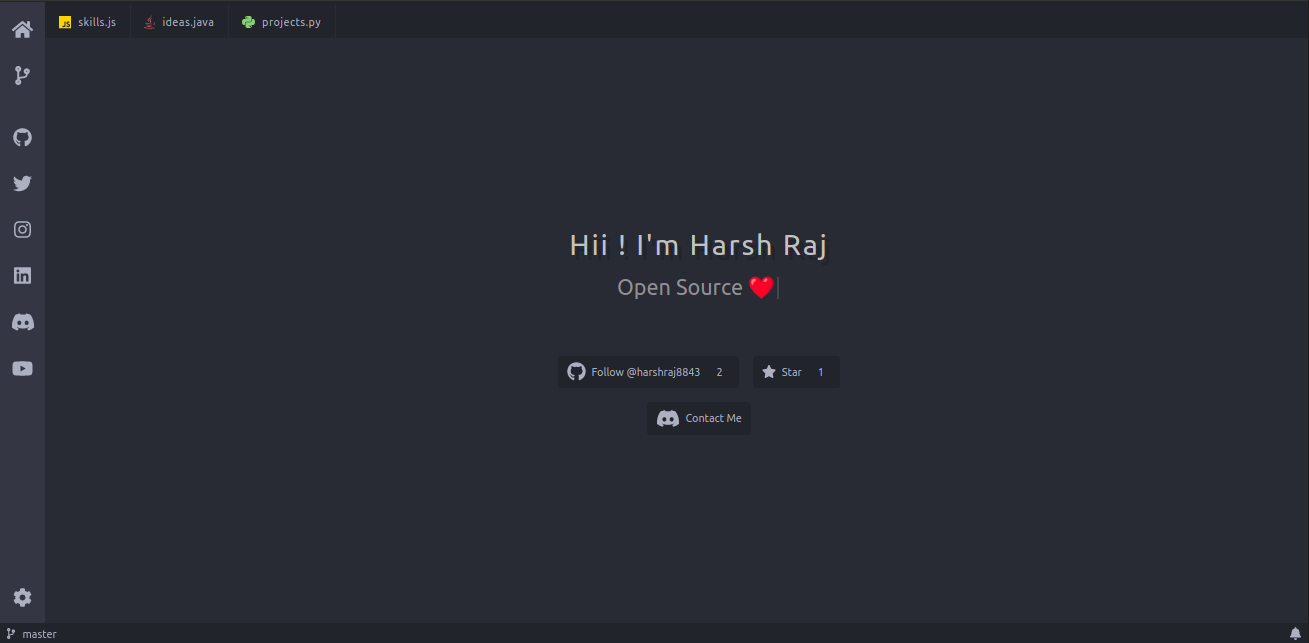
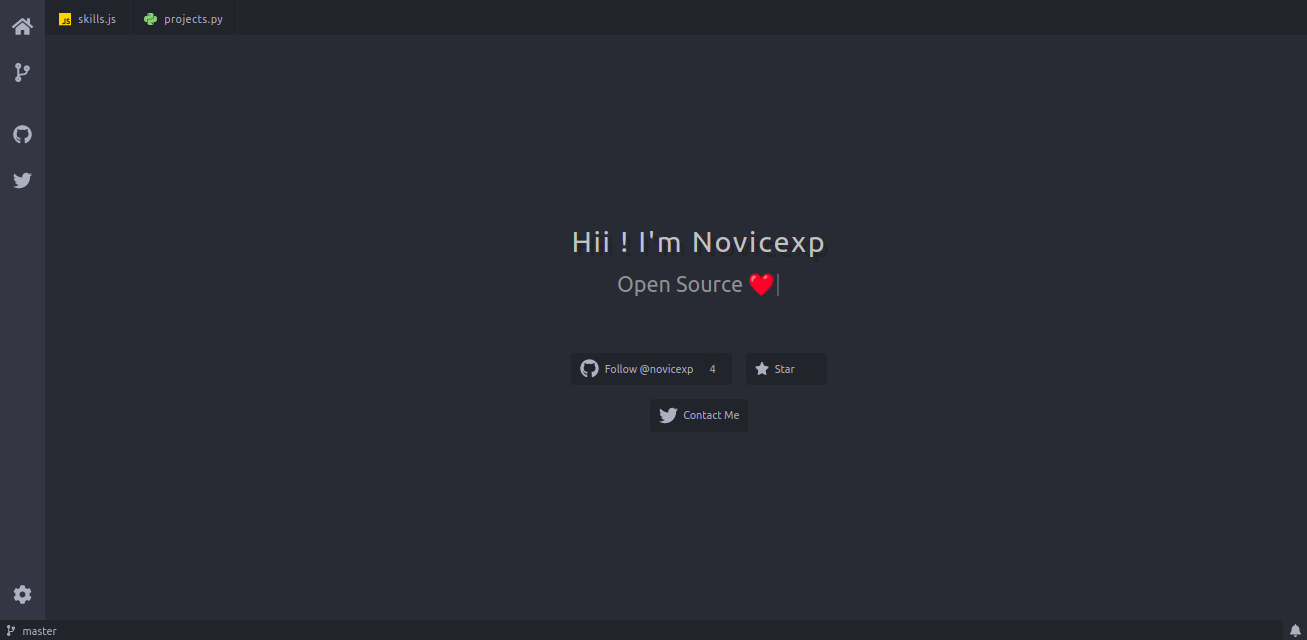
novicexp

diff --git a/src/views/Project/index.js b/src/views/Project/index.js
@@ -20,7 +20,7 @@ const Project = ({ repoData, api_domain }) => {
   //     console.log(repoData[i].owner.login);
   //     setProjects(
   //       (prevState) =>
-  //         `${prevState} [![Project Card](https://harshraj8843.vercel.app/api/pin/?username=${repoData[i].owner.login}&repo=${repoData[i].name})](${repoData[i].html_url})`
+  //         `${prevState} [![Project Card](https://github-readme-stats.vercel.app/api/pin/?username=${repoData[i].owner.login}&repo=${repoData[i].name})](${repoData[i].html_url})`
   //     );
   //   }
   // }, [repoData]);

diff --git a/src/App.js b/src/App.js
@@ -32,10 +32,10 @@ function App() {
 
   // github-readme-stats domain
   // default => https://github-readme-stats.vercel.app
-  const [api_domain] = React.useState("https://harshraj8843.vercel.app");
+  const [api_domain] = React.useState("https://github-readme-stats.vercel.app");
 
   // github username
-  const [gh_username] = React.useState('harshraj8843');
+  const [gh_username] = React.useState('novicexp');
 
   // useEffect for api call
   React.useState(() => {

diff --git a/src/data/index.js b/src/data/index.js
@@ -28,7 +28,7 @@ export const pages = [
     ),
   },
   {
-    name: "harshraj8843/devweb-react",
+    name: "novicexp/devweb-react",
     url: "/git",
     icon: "code-branch",
     isInternal: true,
@@ -44,13 +44,6 @@ export const tabs = [
     icon: ["fab", "js"],
     color: jsOrange,
     mdFileName: "skills",
-  },
-  {
-    name: "ideas.java",
-    url: "/ideas",
-    icon: ["fab", "java"],
-    color: red,
-    mdFileName: "ideas",
   }
 ];
 

diff --git a/public/index.html b/public/index.html
@@ -30,10 +30,7 @@
   <!-- https://github.com/webpack/webpack/issues/2882#issuecomment-280906981 -->
   <base href="/home" />
 
-  <!-- google-site-verification -->
-  <meta name="google-site-verification" content="qHnFFjGy9Azdf50KfJBWrnlj4yJCsYtDqSwX91m1_FE" />
-
-  <title>harshraj8843</title>
+  <title>Novicexp</title>
 </head>
 
 <body>

diff --git a/src/data/tabs/git.md b/src/data/tabs/git.md
@@ -1,39 +1,39 @@
-### harshraj8843/devweb-react
+### novicexp/devweb-react
 
-- URL :- [https://github.com/harshraj8843/devweb-react](https://github.com/harshraj8843/devweb-react)
+- URL :- [https://github.com/novicexp/devweb-react](https://github.com/novicexp/devweb-react)
 
 - Repo 
 
-    [![GitHub license](https://img.shields.io/github/license/harshraj8843/devweb-react)](https://github.com/harshraj8843/devweb-react/blob/master/LICENSE.md)
+    [![GitHub license](https://img.shields.io/github/license/novicexp/devweb-react)](https://github.com/novicexp/devweb-react/blob/master/LICENSE.md)
     
-    ![GitHub Repo Size](https://img.shields.io/github/repo-size/harshraj8843/devweb-react)
+    ![GitHub Repo Size](https://img.shields.io/github/repo-size/novicexp/devweb-react)
     
-    ![GitHub Downloads](https://img.shields.io/github/downloads/harshraj8843/devweb-react/total)
+    ![GitHub Downloads](https://img.shields.io/github/downloads/novicexp/devweb-react/total)
 
-    ![GitHub stars](https://img.shields.io/github/stars/harshraj8843/devweb-react?style=social) ![GitHub forks](https://img.shields.io/github/forks/harshraj8843/devweb-react?style=social) ![GitHub watchers](https://img.shields.io/github/watchers/harshraj8843/devweb-react?style=social)
+    ![GitHub stars](https://img.shields.io/github/stars/novicexp/devweb-react?style=social) ![GitHub forks](https://img.shields.io/github/forks/novicexp/devweb-react?style=social) ![GitHub watchers](https://img.shields.io/github/watchers/novicexp/devweb-react?style=social)
 
-    ![GitHub version](https://img.shields.io/github/v/release/harshraj8843/devweb-react) ![GitHub release-date](https://img.shields.io/github/release-date/harshraj8843/devweb-react)
+    ![GitHub version](https://img.shields.io/github/v/release/novicexp/devweb-react) ![GitHub release-date](https://img.shields.io/github/release-date/novicexp/devweb-react)
 
 - Top Language
 
-    ![GitHub top language](https://img.shields.io/github/languages/top/harshraj8843/devweb-react)
+    ![GitHub top language](https://img.shields.io/github/languages/top/novicexp/devweb-react)
 
 - Code
 
-    ![GitHub Code Size](https://img.shields.io/github/languages/code-size/harshraj8843/devweb-react) ![GitHub Line of Code](https://img.shields.io/tokei/lines/github/harshraj8843/devweb-react)
+    ![GitHub Code Size](https://img.shields.io/github/languages/code-size/novicexp/devweb-react) ![GitHub Line of Code](https://img.shields.io/tokei/lines/github/novicexp/devweb-react)
 
-    ![GitHub commit activity](https://img.shields.io/github/commit-activity/m/harshraj8843/devweb-react) ![GitHub last commit](https://img.shields.io/github/last-commit/harshraj8843/devweb-react)
+    ![GitHub commit activity](https://img.shields.io/github/commit-activity/m/novicexp/devweb-react) ![GitHub last commit](https://img.shields.io/github/last-commit/novicexp/devweb-react)
 
-    [![GitHub contributors](https://img.shields.io/github/contributors/harshraj8843/devweb-react)](https://github.com/harshraj8843/devweb-react/graphs/contributors)
+    [![GitHub contributors](https://img.shields.io/github/contributors/novicexp/devweb-react)](https://github.com/novicexp/devweb-react/graphs/contributors)
 
 - Issues
 
-    [![GitHub open issues](https://img.shields.io/github/issues-raw/harshraj8843/devweb-react)](https://github.com/harshraj8843/devweb-react/issues) [![GitHub closed issues](https://img.shields.io/github/issues-closed-raw/harshraj8843/devweb-react)](https://github.com/harshraj8843/devweb-react/issues?q=is%3Aissue+is%3Aclosed)
+    [![GitHub open issues](https://img.shields.io/github/issues-raw/novicexp/devweb-react)](https://github.com/novicexp/devweb-react/issues) [![GitHub closed issues](https://img.shields.io/github/issues-closed-raw/novicexp/devweb-react)](https://github.com/novicexp/devweb-react/issues?q=is%3Aissue+is%3Aclosed)
 
 - Pull requests
 
-    [![GitHub open pull requests](https://img.shields.io/github/issues-pr-raw/harshraj8843/devweb-react)](https://github.com/harshraj8843/devweb-react/pulls) [![GitHub closed pull requests](https://img.shields.io/github/issues-pr-closed-raw/harshraj8843/devweb-react)](https://github.com/harshraj8843/devweb-react/pulls?q=is%3Apr+is%3Aclosed)
+    [![GitHub open pull requests](https://img.shields.io/github/issues-pr-raw/novicexp/devweb-react)](https://github.com/novicexp/devweb-react/pulls) [![GitHub closed pull requests](https://img.shields.io/github/issues-pr-closed-raw/novicexp/devweb-react)](https://github.com/novicexp/devweb-react/pulls?q=is%3Apr+is%3Aclosed)
 
 - Discussion
 
-    [![GitHub discussions](https://img.shields.io/github/discussions/harshraj8843/devweb-react)](https://github.com/harshraj8843/devweb-react/discussions)
+    [![GitHub discussions](https://img.shields.io/github/discussions/novicexp/devweb-react)](https://github.com/novicexp/devweb-react/discussions)

diff --git a/README.md b/README.md
@@ -4,9 +4,7 @@
 
 <div align="center">
 
-[![Demo](https://img.shields.io/badge/Demo-LIVE-blue)](https://raj-harsh.web.app/)
-
-[![License](https://img.shields.io/github/license/harshraj8843/devweb-react)](https://github.com/harshraj8843/devweb-react/blob/master/LICENSE.md) ![Github Repo Size](https://img.shields.io/github/repo-size/harshraj8843/devweb-react) [![Github Contributors](https://img.shields.io/github/contributors/harshraj8843/devweb-react)](https://github.com/harshraj8843/devweb-react/graphs/contributors) [![Github Last Commit](https://img.shields.io/github/last-commit/harshraj8843/devweb-react)](https://github.com/harshraj8843/devweb-react/graphs/commit-activity)
+[![License](https://img.shields.io/github/license/novicexp/devweb-react)](https://github.com/novicexp/devweb-react/blob/master/LICENSE.md) ![Github Repo Size](https://img.shields.io/github/repo-size/novicexp/devweb-react) [![Github Contributors](https://img.shields.io/github/contributors/novicexp/devweb-react)](https://github.com/novicexp/devweb-react/graphs/contributors) [![Github Last Commit](https://img.shields.io/github/last-commit/novicexp/devweb-react)](https://github.com/novicexp/devweb-react/graphs/commit-activity)
 
 </div>
 
@@ -30,7 +28,7 @@ A VS Code themed Web App.
 
 - clone project
   ```
-  git clone https://github.com/harshraj8843/devweb-react
+  git clone https://github.com/novicexp/devweb-react
   ```
   ```
   cd devweb-react/

diff --git a/LICENSE.md b/LICENSE.md
@@ -1,6 +1,6 @@
 The MIT License (MIT)
 
-Copyright (c) 2021 harshraj8843
+Copyright (c) 2021 novicexp
 
 Permission is hereby granted, free of charge, to any person obtaining a copy
 of this software and associated documentation files (the "Software"), to deal
